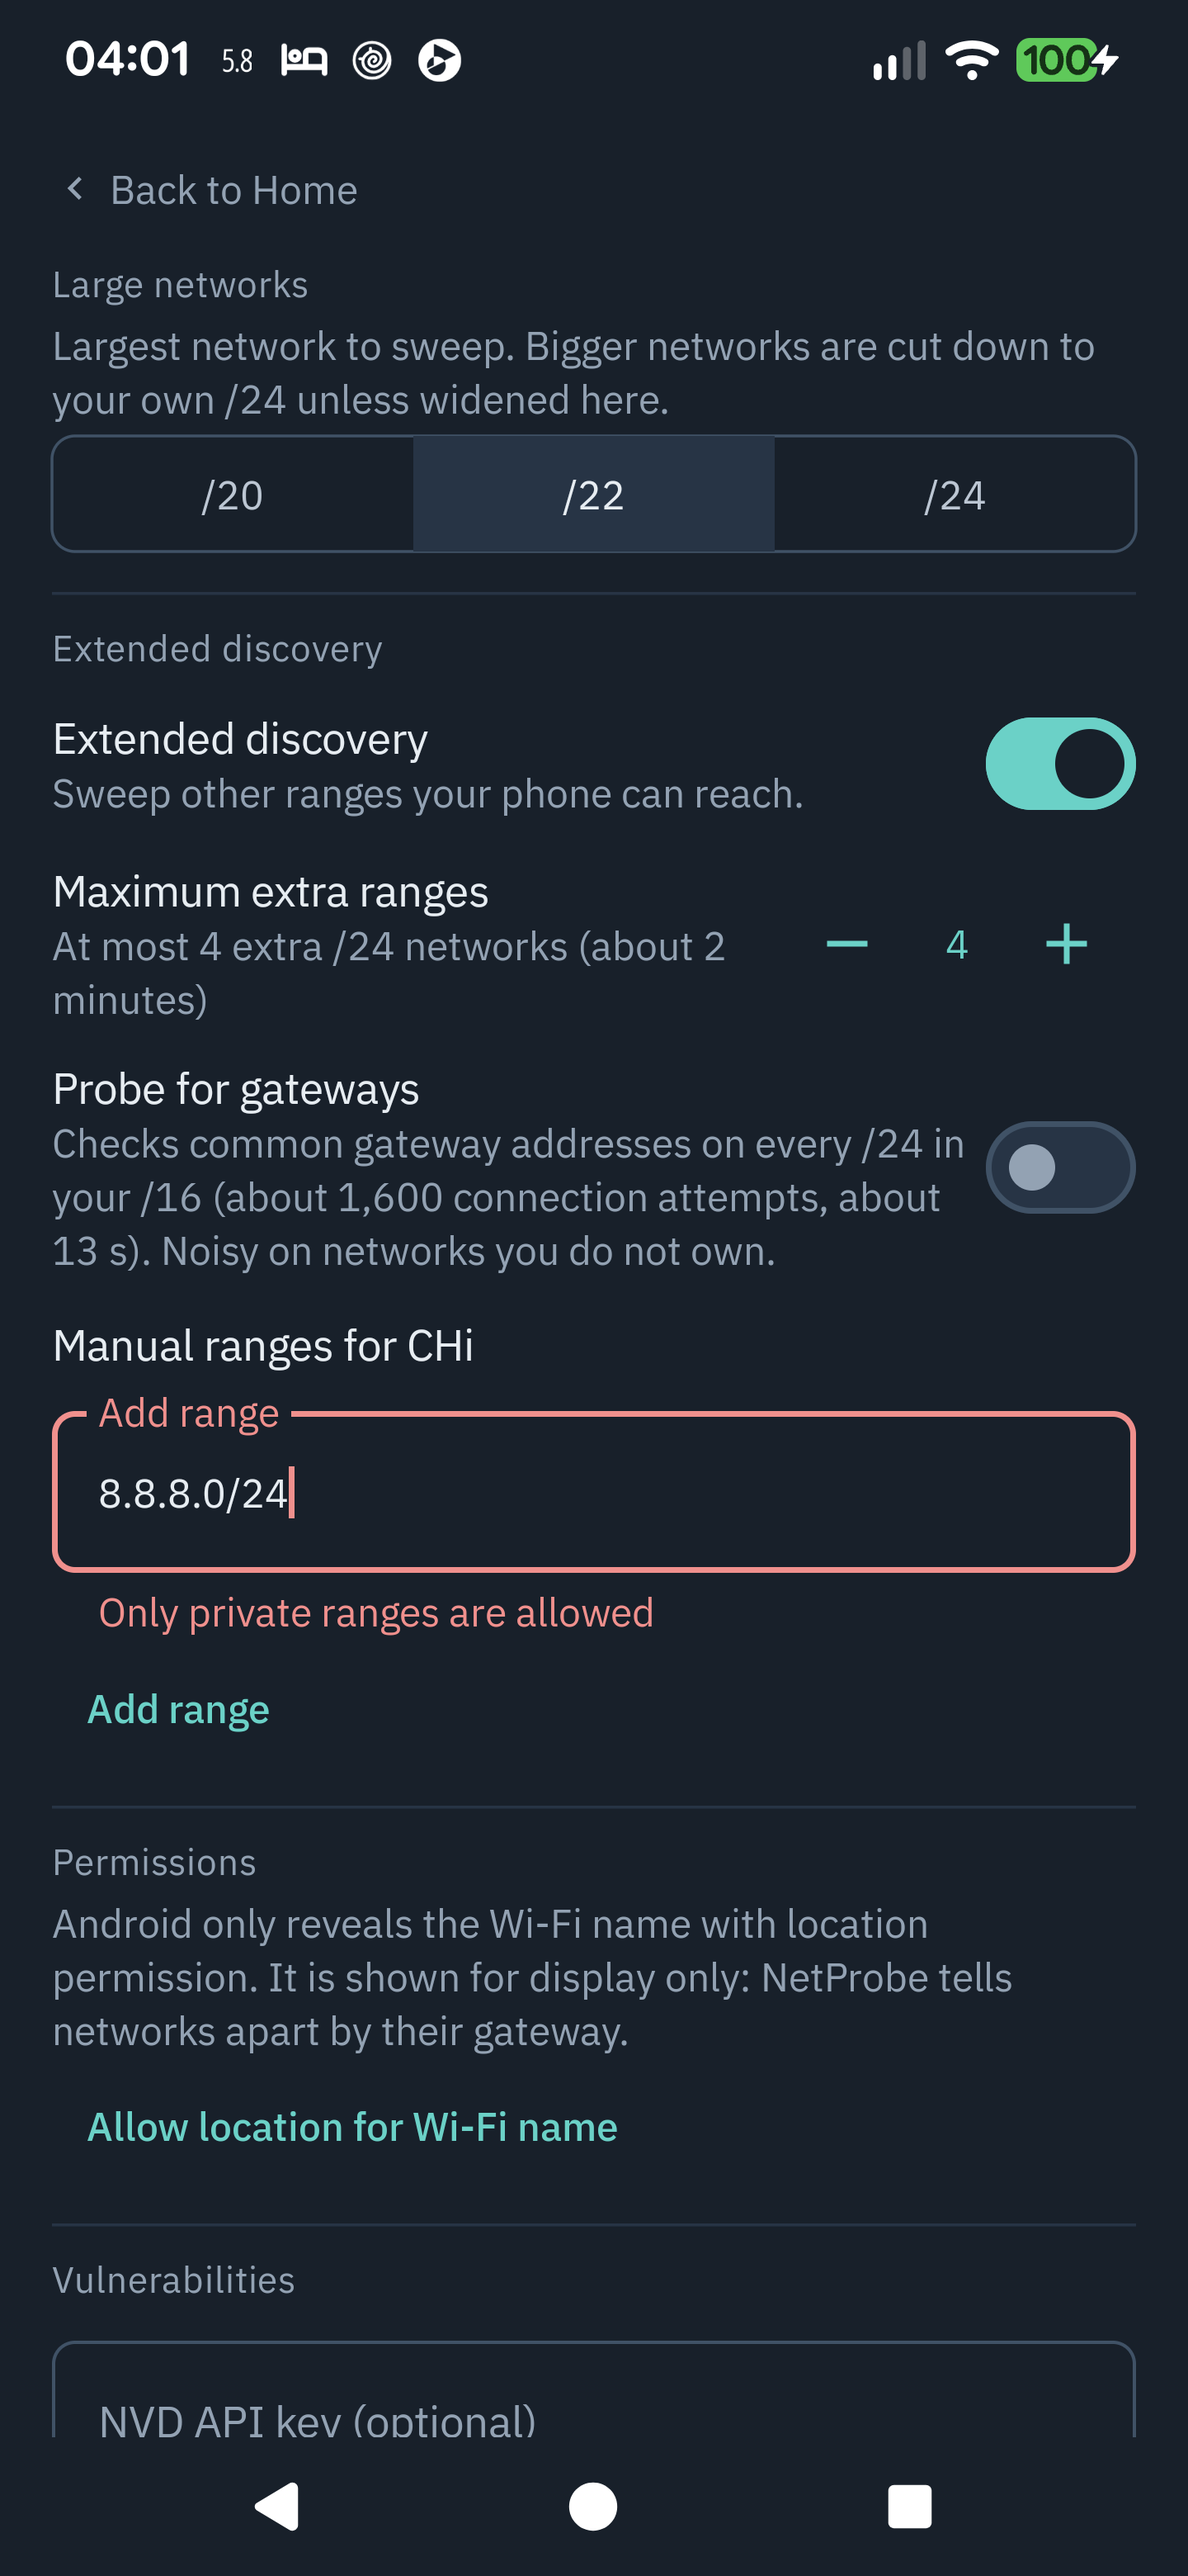
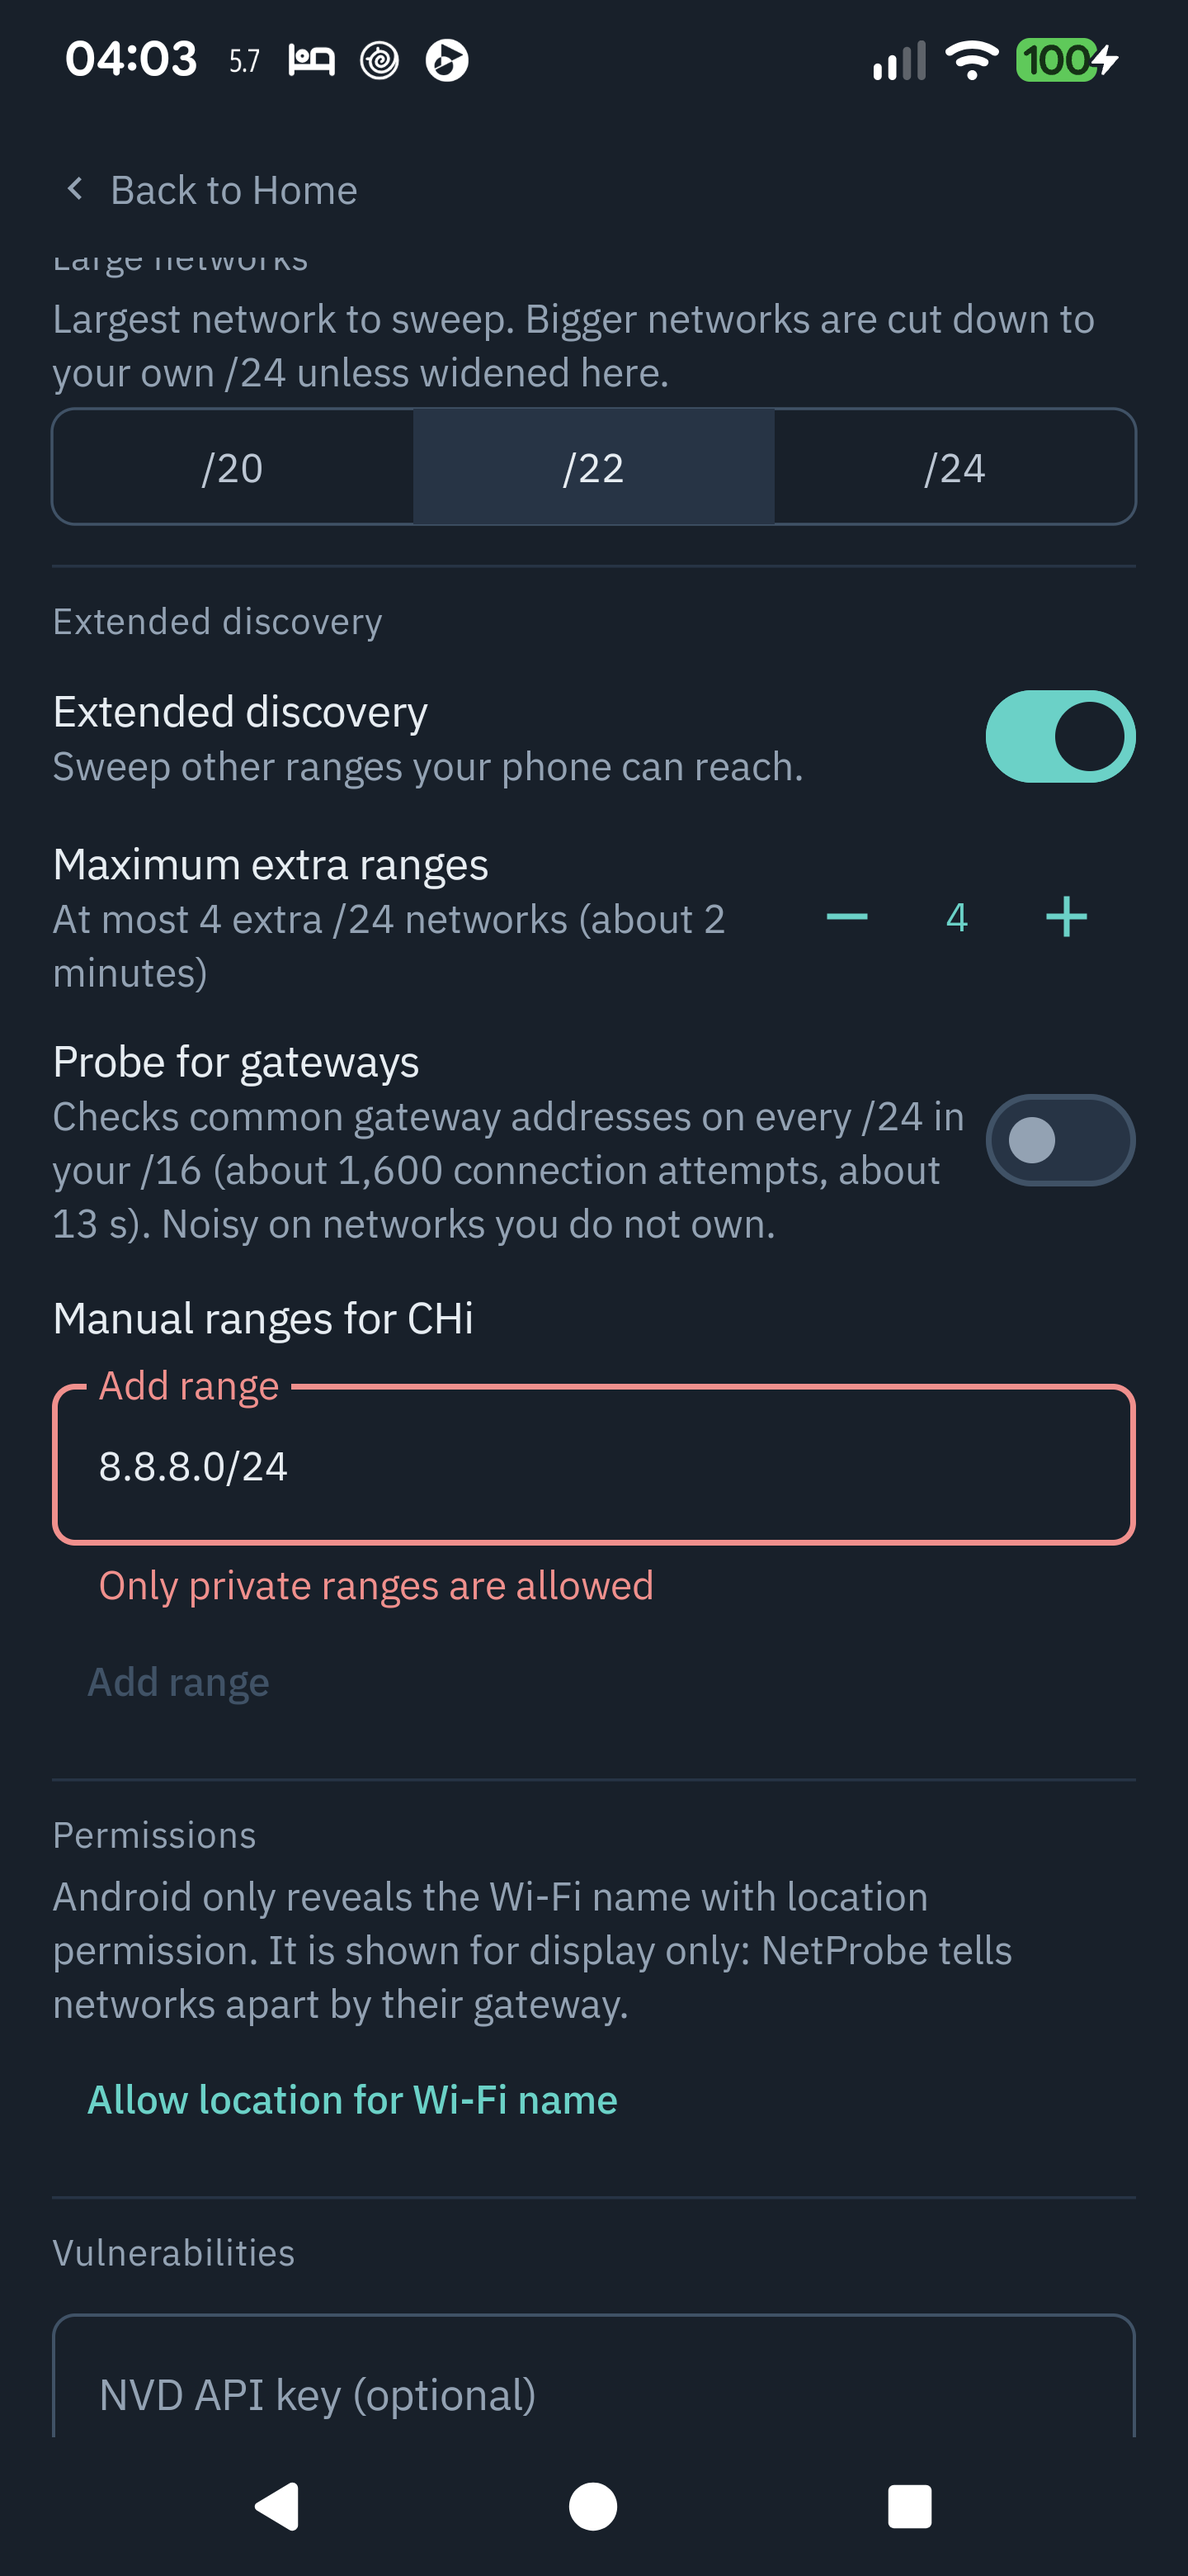
Keep the manual-range error visible above the keyboard and dim the disabled Add range button

diff --git a/app/src/main/java/com/northwalessolutions/netprobe/ui/settings/ExtendedSection.kt b/app/src/main/java/com/northwalessolutions/netprobe/ui/settings/ExtendedSection.kt
@@ -1,6 +1,8 @@
 package com.northwalessolutions.netprobe.ui.settings
 
 import androidx.compose.foundation.layout.*
+import androidx.compose.foundation.relocation.BringIntoViewRequester
+import androidx.compose.foundation.relocation.bringIntoViewRequester
 import androidx.compose.foundation.shape.RoundedCornerShape
 import androidx.compose.material.icons.Icons
 import androidx.compose.material.icons.filled.Add
@@ -13,6 +15,7 @@ import androidx.compose.ui.Alignment
 import androidx.compose.ui.Modifier
 import androidx.compose.ui.draw.alpha
 import androidx.compose.ui.graphics.vector.ImageVector
+import androidx.compose.ui.platform.LocalDensity
 import androidx.compose.ui.platform.testTag
 import androidx.compose.ui.text.style.TextAlign
 import androidx.compose.ui.unit.dp
@@ -98,19 +101,24 @@ private fun ManualEditor(networkName: String?, manual: List<Subnet>, local: Subn
         val result = if (text.isBlank()) null else CidrParser.parse(text, local)
         val error = result?.error
         val helper = (result?.entries?.mapNotNull { it.note }.orEmpty() + notes).joinToString("\n").ifEmpty { null }
+        val messageInView = remember { BringIntoViewRequester() }
+        val imeUp = WindowInsets.ime.getBottom(LocalDensity.current) > 0
+        // The scroll column does not follow supporting text on its own, so pull the message above the keyboard when it appears or the keyboard opens.
+        LaunchedEffect(error ?: helper, imeUp) { if ((error ?: helper) != null) messageInView.bringIntoView() }
         OutlinedTextField(text, { text = it; notes = emptyList() }, Modifier.fillMaxWidth().testTag("addRange"), enabled = enabled,
             label = { Text(ExtendedCopy.ADD) }, placeholder = { Text("10.0.4.0/24") }, isError = error != null, textStyle = NetProbeText.data,
             supportingText = when {
-                error != null -> { { Text(error, color = NetProbeColors.error) } }
-                helper != null -> { { Text(helper, color = NetProbeColors.textMuted) } }
+                error != null -> { { Text(error, color = NetProbeColors.error, modifier = Modifier.bringIntoViewRequester(messageInView)) } }
+                helper != null -> { { Text(helper, color = NetProbeColors.textMuted, modifier = Modifier.bringIntoViewRequester(messageInView)) } }
                 else -> null
             },
             colors = npFieldColors(), shape = RoundedCornerShape(8.dp))
+        val canAdd = enabled && result != null && error == null && result.entries.isNotEmpty()
         TextButton(onClick = {
             val (merged, dupNotes) = CidrParser.merge(manual, result?.subnets.orEmpty())
             onChange(merged); notes = dupNotes; text = ""
-        }, enabled = enabled && result != null && error == null && result.entries.isNotEmpty(), modifier = Modifier.heightIn(min = Dimens.touch).testTag("addRangeButton")) {
-            Text(ExtendedCopy.ADD, style = NetProbeText.action, color = if (enabled) NetProbeColors.signal else NetProbeColors.border)
+        }, enabled = canAdd, modifier = Modifier.heightIn(min = Dimens.touch).testTag("addRangeButton")) {
+            Text(ExtendedCopy.ADD, style = NetProbeText.action, color = if (canAdd) NetProbeColors.signal else NetProbeColors.border)
         }
     }
 }
